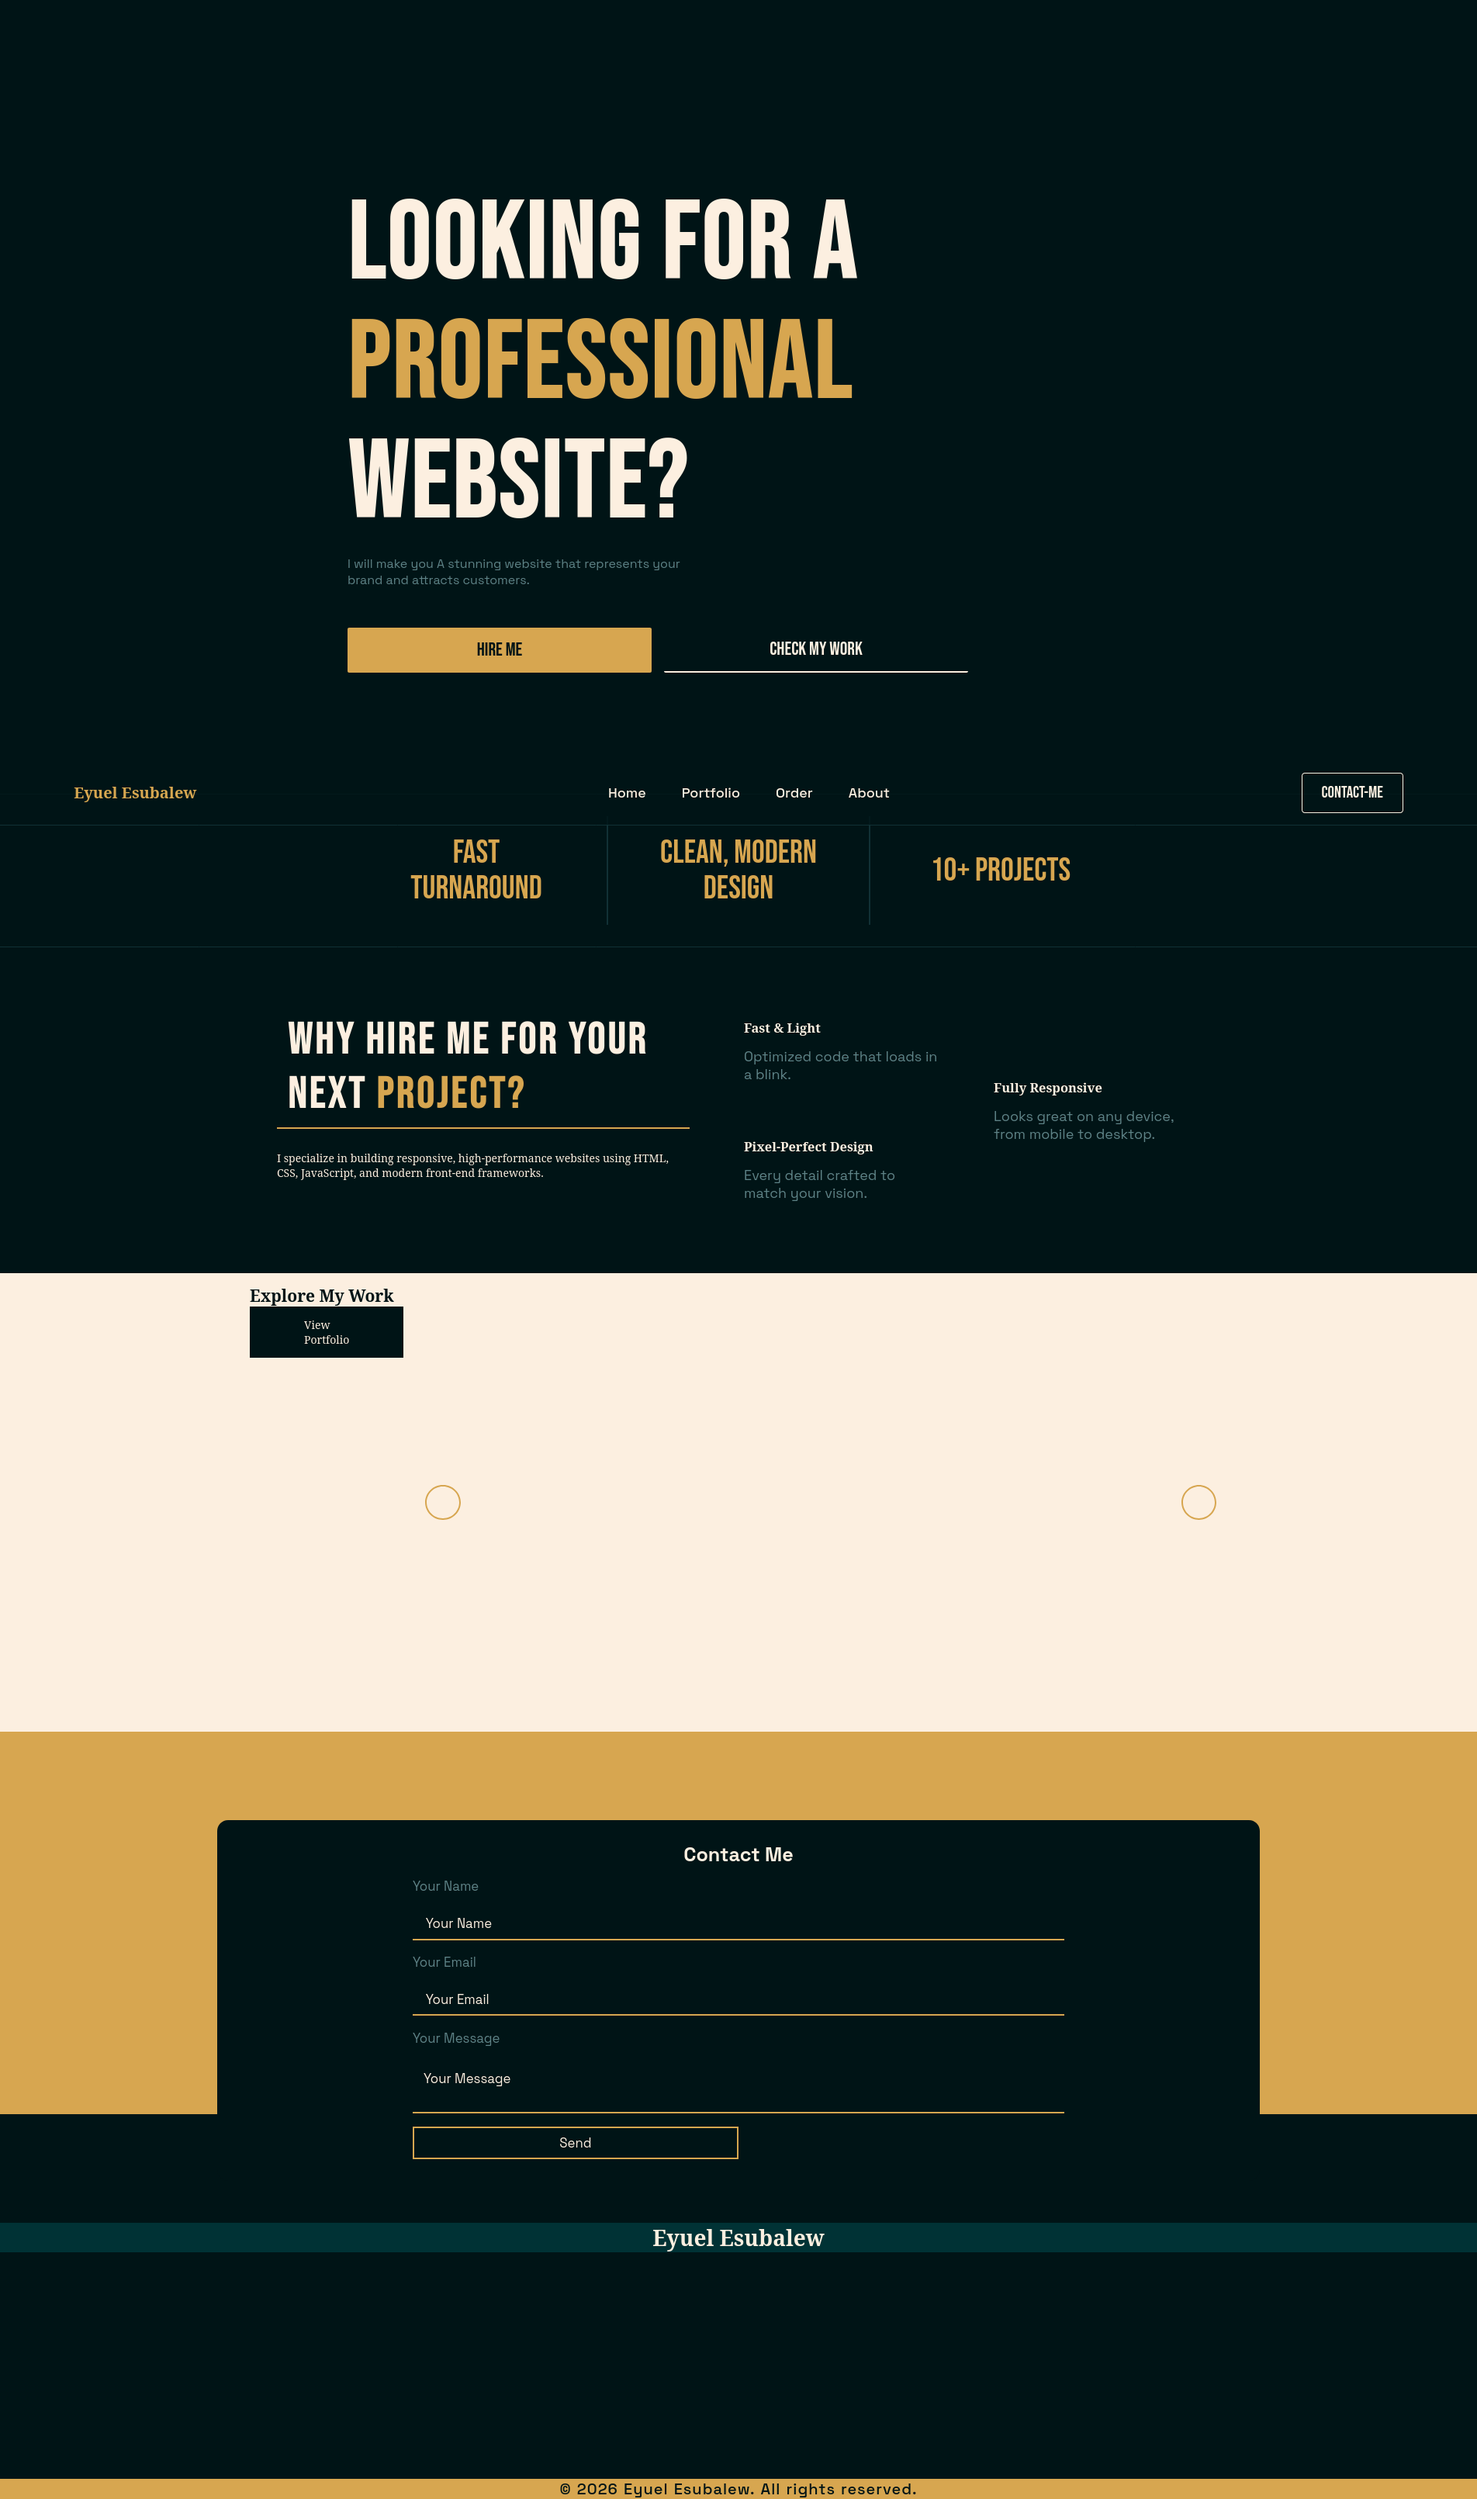
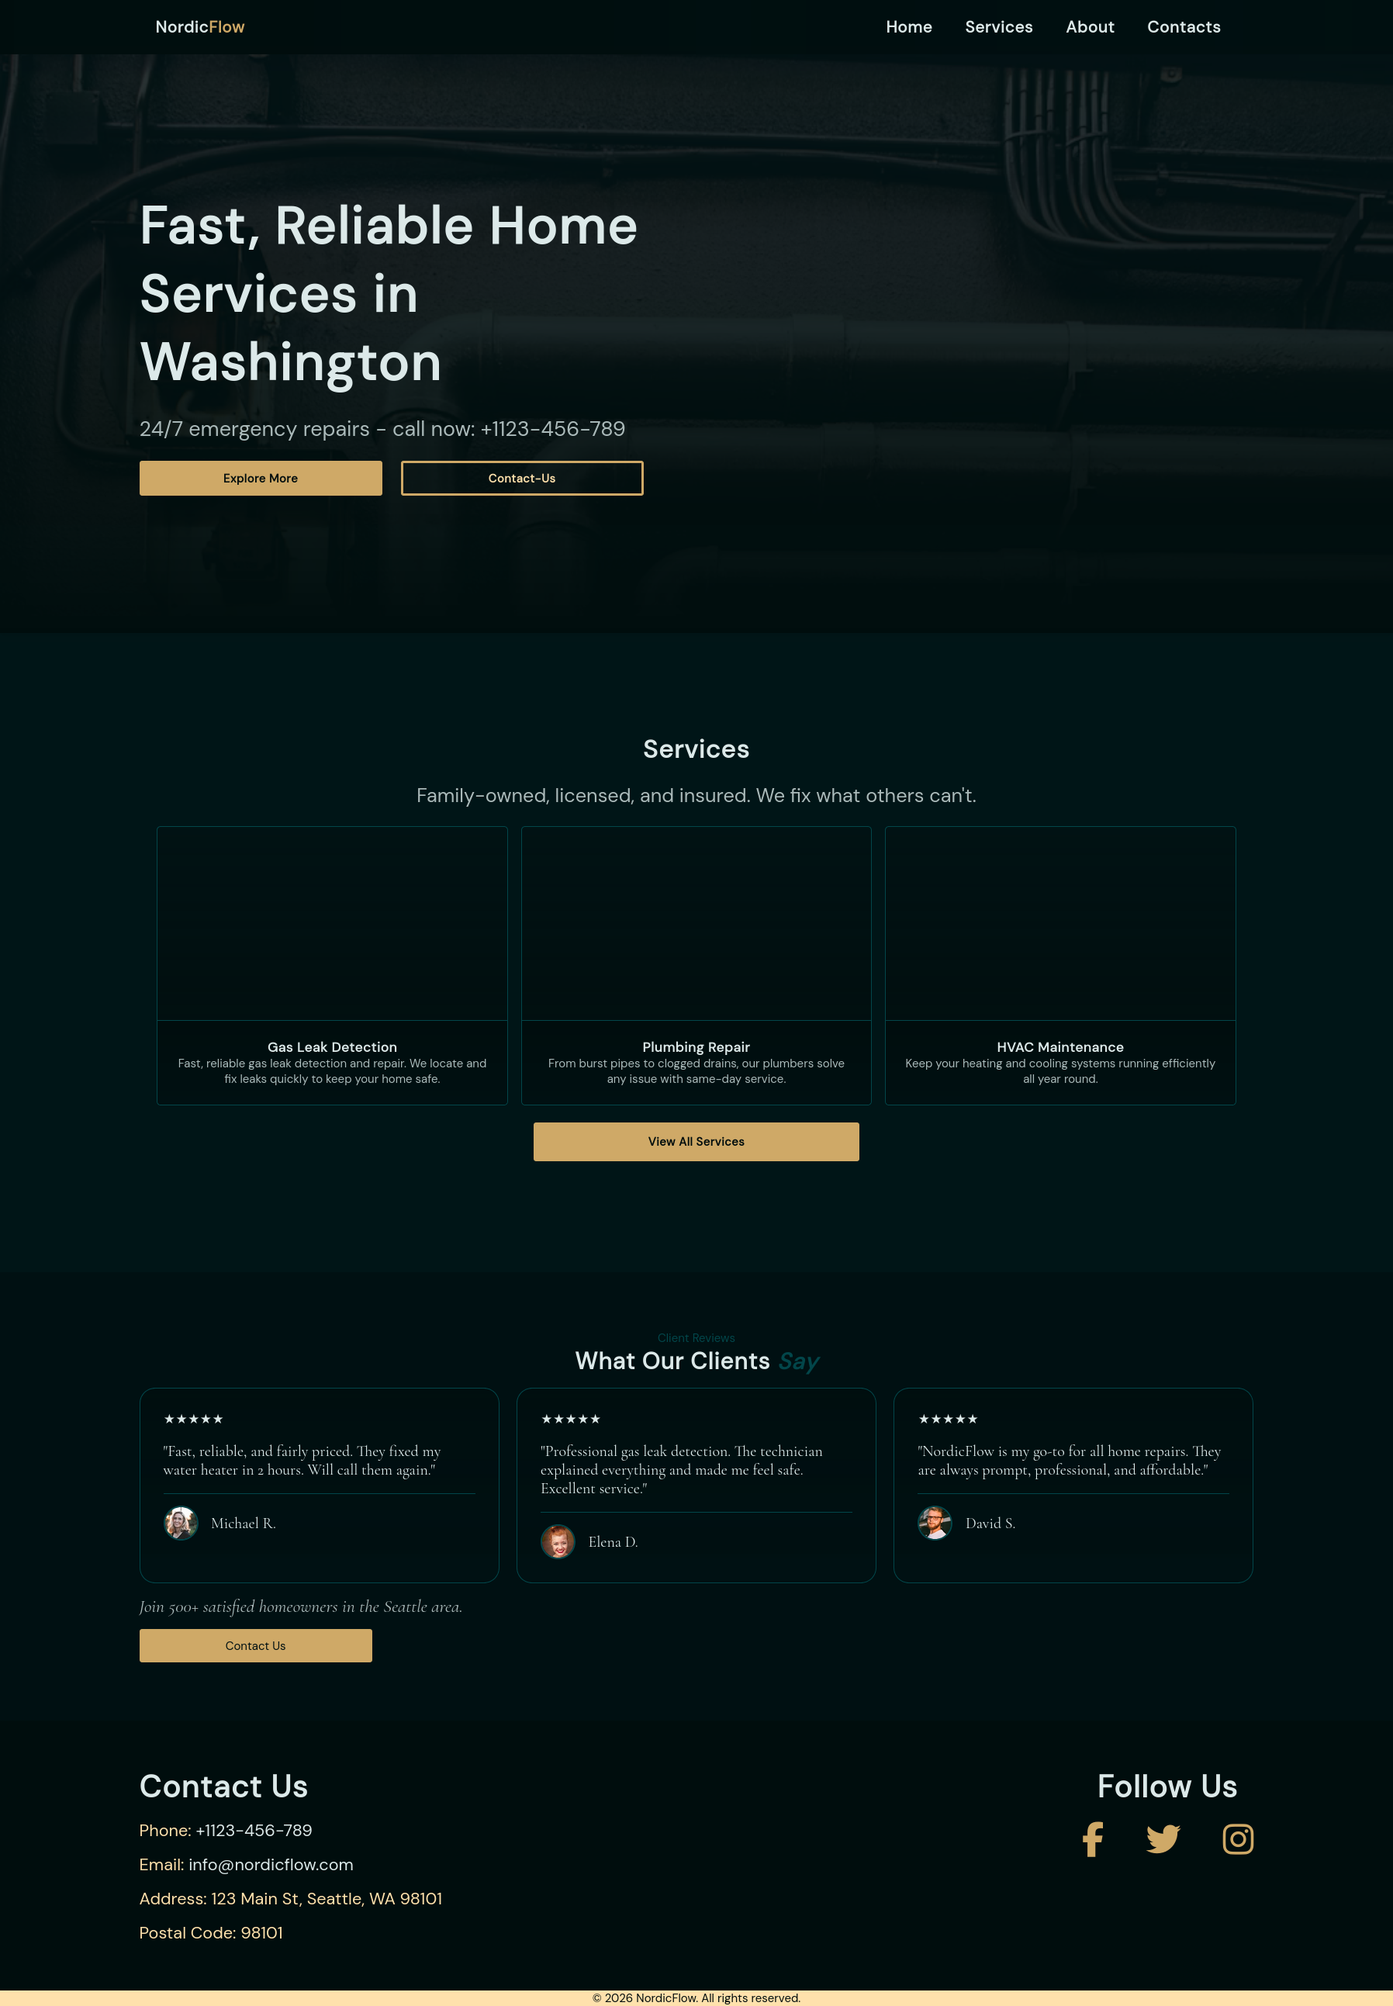
update: portfolio update

diff --git a/index.html b/index.html
@@ -15,7 +15,7 @@
         href="https://fonts.googleapis.com/css2?family=Bebas+Neue&family=Google+Sans+Flex:opsz,wght@6..144,1..1000&family=Space+Grotesk:wght@300..700&display=swap"
         rel="stylesheet">
         <!-- Font Awesome for Icons (Place in your <head> if not already added) -->
-<link rel="stylesheet" href="https://cdnjs.cloudflare.com/ajax/libs/font-awesome/6.5.1/css/all.min.css">
+    <link rel="stylesheet" href="https://cdnjs.cloudflare.com/ajax/libs/font-awesome/6.5.1/css/all.min.css">
     <title>Eyuel Esubalew - Front End Web Developer</title>
     <link rel="stylesheet" href="style.css">
     <link rel="stylesheet" href="global.css">
@@ -42,7 +42,7 @@
     <main>
 
         <!-- Hero section -->
-        <section class="hero" id="hero">
+        <section class="hero reveal" id="hero">
             <div class="container">
                 <h1>professional<br> <span>High-Performance</span> Websites.</h1>
                 <p>I will make you A stunning website that represents your brand and attracts customers.</p>
@@ -82,10 +82,17 @@
                 <div class="display-work">
                     <button></button>
                     <div>
-                        <img src="/image/web001.png" width="30%" alt="website screenshot">
-                        <img src="/image/web001.png" width="30%" alt="website screenshot">
-                        <img src="/image/web001.png" width="30%" alt="website screenshot">
-                        <img src="/image/web001.png" width="30%" alt="website screenshot">
+                        <a href="portfolio/nordicflow/index.html" target="_blank" rel="noopener noreferrer" class="reveal">
+                            <img src="/image/web001.png" alt="Project Preview">
+                        </a>
+                        <a href="portfolio/peakfit/index.html" target="_blank" rel="noopener noreferrer" class="reveal">
+                            <img src="/image/web002.png" alt="Project Preview">
+                        </a>
+                        <a href="portfolio/nextgen/index.html" target="_blank" rel="noopener noreferrer" class="reveal">
+                            <img src="/image/web003.png" alt="Project Preview">
+                        </a>
+                        <img src="/image/web004.png" width="30%" alt="website screenshot" class="reveal">
+                        
                     </div>
                     <button></button>
                 </div>
@@ -130,21 +137,21 @@
 
         <!-- About Section -->
         <section class="about" id="about">
-            <div class="container reveal">
-                <h2>About <span>Me</span></h2>
+            <div class="container">
+                <h2 class="reveal">About <span>Me</span></h2>
                 
-                <div class="education-badge">
+                <div class="education-badge reveal">
                     <i class="fa-solid fa-graduation-cap"></i>
                     <span>3rd Year CS Student @ <a href="https://smuc.edu.et/" target="_blank" rel="noopener noreferrer">St. Mary's University</a></span>
                 </div>
 
-                <p>Hi, I'm Eyuel. I write code that's fast, secure, and beautiful. With skills in C++, Rust, 
+                <p class="reveal">Hi, I'm Eyuel. I write code that's fast, secure, and beautiful. With skills in C++, Rust, 
                     and SQL, <br> I bring a developer's rigor to front-end design—so your site isn't just pretty; 
                     it's built to last. I've been coding professionally for a year, but I've been training 
                     my eye for design my whole life through drawing and gaming. I build for humans, not just 
                     browsers. Let's create something memorable."</p>
                 
-                <div class="about-actions">
+                <div class="about-actions reveal">
                     <a href="https://github.com/eyuele" target="_blank" rel="noopener noreferrer" class="github-btn">
                         <i class="fa-brands fa-github"></i>
                         <span>GitHub Profile</span>
@@ -210,12 +217,12 @@
     <footer>
         <div class="footer-main">
             <div class="container">
-                <div class="footer-brand">
+                <div class="footer-brand revealright">
                     <h2>Eyuel Esubalew</h2>
                     <p>3rd Year CS Student & Front-End Developer crafting functional, performant web experiences.</p>
                 </div>
 
-                <div class="footer-nav">
+                <div class="footer-nav reveal">
                     <h3>Quick Links</h3>
                     <ul>
                         <li><a href="#hero">Home</a></li>
@@ -225,7 +232,7 @@
                     </ul>
                 </div>
 
-                <div class="footer-socials">
+                <div class="footer-socials revealleft">
                     <h3>Connect</h3>
                     <div class="social-links">
                         <a href="https://github.com/eyuele" target="_blank" rel="noopener noreferrer" aria-label="GitHub">

diff --git a/utility.css b/utility.css
@@ -1,12 +1,13 @@
+
 :root {
-    --color001: #000000;
-    --color001-t: rgba(0, 0, 0, 0.8);
-    --color002: #252525;
-    --color003: #706f6f;
-    --color004: #d7a650;
-    --color005: #fcefe0;
-    --color006: #000000;
-    --color007: #2f2f2f;
+    --color001: #ffffff;
+    --color001-t: rgba(252, 252, 252, 0.8);
+    --color002: #161616;
+    --color003: #7b7b7b;
+    --color004: #dba03b;
+    --color005: #1e1e1e;
+    --color006: rgb(226, 226, 226);
+    --color007: #585858;
     --color008: #ffc560;
     --color009: #6ae166;
     --color010: #78f0b6;
@@ -14,27 +15,31 @@
     --fontStyle001: "Bebas Neue", sans-serif;
     --fontStyle002: "Space Grotesk", sans-serif;
     --font001: clamp(20px, 3.5vh, 24rem);
-    --font002: clamp(36px, 11vw, 140px);
-    --font003: clamp(14px, 1vh, 30px);
-    --font004: clamp(40px, 3vw, 80px);
-    --transitions: 400ms ease;
-}
-
-:root.light {
-    --color001: #ffffff;
-    --color001-t: rgba(252, 252, 252, 0.8);
-    --color002: #161616;
-    --color003: #4a4a4a;
-    --color004: #dba03b;
-    --color005: #1e1e1e;
-    --color006: rgb(226, 226, 226);
-    --color007: #989797;
-    --color008: #ffc560;
-    --fontStyle001: "Bebas Neue", sans-serif;
-    --fontStyle002: "Space Grotesk", sans-serif;
-    --font001: clamp(20px, 3.5vh, 24rem);
     --font002: clamp(48px, 15vw, 140px);
     --font003: clamp(14px, 1vh, 30px);
     --font004: clamp(40px, 3vw, 80px);
     --transitions: 400ms ease;
+}
+@media (prefers-color-scheme: dark) {
+    :root {
+        --color001: #000000;
+        --color001-t: rgba(0, 0, 0, 0.8);
+        --color002: #252525;
+        --color003: #706f6f;
+        --color004: #d7a650;
+        --color005: #fcefe0;
+        --color006: #000000;
+        --color007: #2f2f2f;
+        --color008: #ffc560;
+        --color009: #6ae166;
+        --color010: #78f0b6;
+        --color011: #49ff43;
+        --fontStyle001: "Bebas Neue", sans-serif;
+        --fontStyle002: "Space Grotesk", sans-serif;
+        --font001: clamp(20px, 3.5vh, 24rem);
+        --font002: clamp(36px, 11vw, 140px);
+        --font003: clamp(14px, 1vh, 30px);
+        --font004: clamp(40px, 3vw, 80px);
+        --transitions: 400ms ease;
+    }
 }

diff --git a/global.css b/global.css
@@ -117,7 +117,7 @@ a {
 
 .reveal {
     opacity: 0;
-    transform: translateY(30px);
+    transform: translateY(100px);
     transition: opacity 600ms ease-out, transform 600ms ease-out;
     transition-delay: calc(var(--delay-index, 0) * 150ms);
 }
@@ -129,7 +129,7 @@ a {
 .revealleft {
     opacity: 0;
     transform: translateX(160px);
-    transition: opacity 700ms ease-out, transform 600ms ease-out;
+    transition: opacity 600ms ease-out, transform 600ms ease-out;
     transition-delay: calc(var(--delay-index, 0) * 150ms);
 }
 .revealleft.visible {
@@ -140,7 +140,7 @@ a {
 .revealright {
     opacity: 0;
     transform: translateX(-160px);
-    transition: opacity 700ms ease-out, transform 600ms ease-out;
+    transition: opacity 600ms ease-out, transform 600ms ease-out;
     transition-delay: calc(var(--delay-index, 0) * 150ms);
 }
 .revealright.visible {
@@ -149,7 +149,27 @@ a {
 }
 
 
+@media (prefers-reduced-motion) {
 
+.reveal {
+    opacity: 1;
+    transform: translateY(0);
+}
+
+
+.revealleft {
+    opacity: 1;
+    transform: translateX(0);
+}
+
+.revealright {
+    opacity: 1;
+    transform: translateX(0);
+}
+
+
+
+}
 
 
 

diff --git a/portfolio/index.html b/portfolio/index.html
@@ -25,15 +25,15 @@
     <!-- The header/navigation bar will be here -->
 
     <!-- Navigation -->
-    <div class="navigation">
+     <div class="navigation">
         <nav>
             <h1>Eyuel Esubalew</h1>
             <ul>
                 <li><a href="../index.html">Home</a></li>
-                <li><a href="index.html">Portfolio</a></li>
-                <li><a href="../aboutme/index.html">About-Me</a></li>
+                <li><a href="#hireme">Hire-me</a></li>
+                <li><a href="#about">About</a></li>
             </ul>
-            <a class="btn" href="#contact">Contact-Me</a>
+            <a class="btn" href="index.html">Portfolio</a>
         </nav>
     </div>
 

diff --git a/style.css b/style.css
@@ -293,7 +293,9 @@ img {}
 }
 
 .display-work div img {
-    width: 15em;
+    width: 18em;
+    height: 28em;
+    
 }
 
 .explore .container .portfolio-btn {
